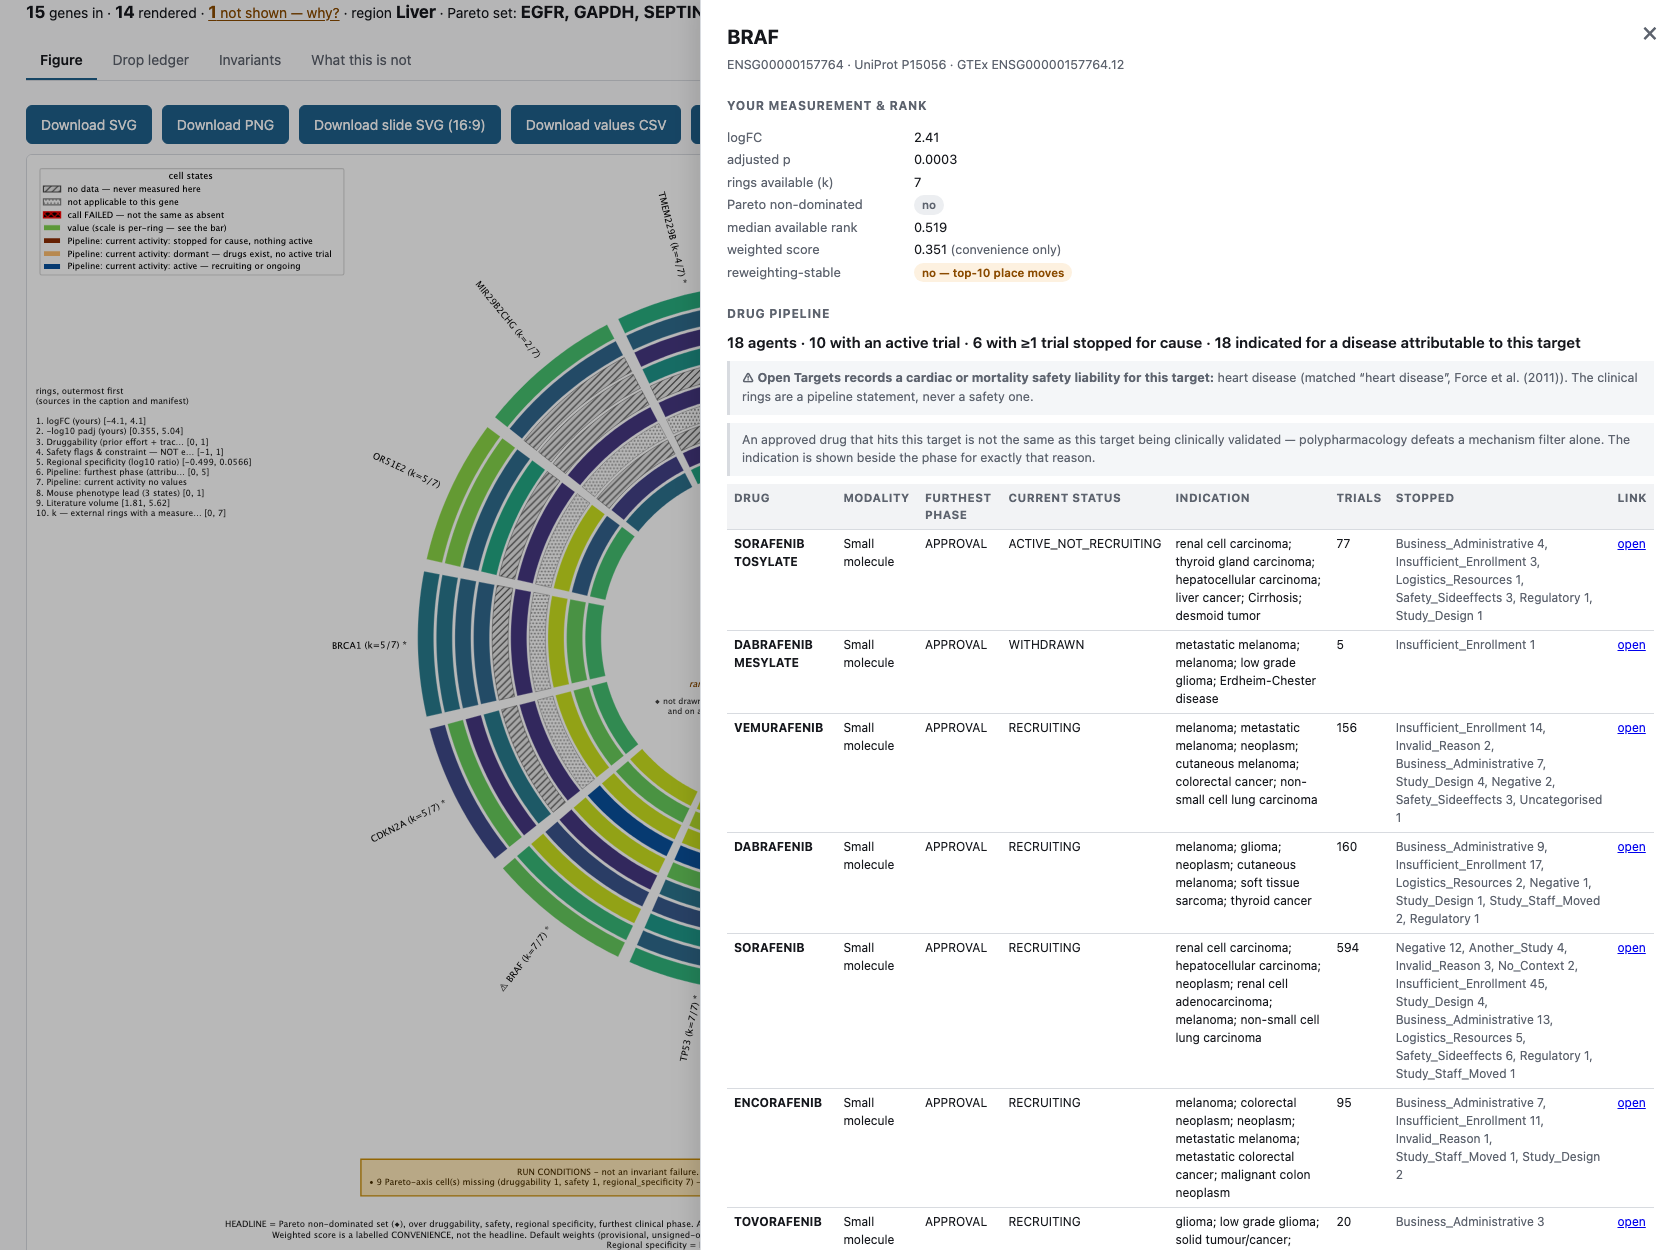
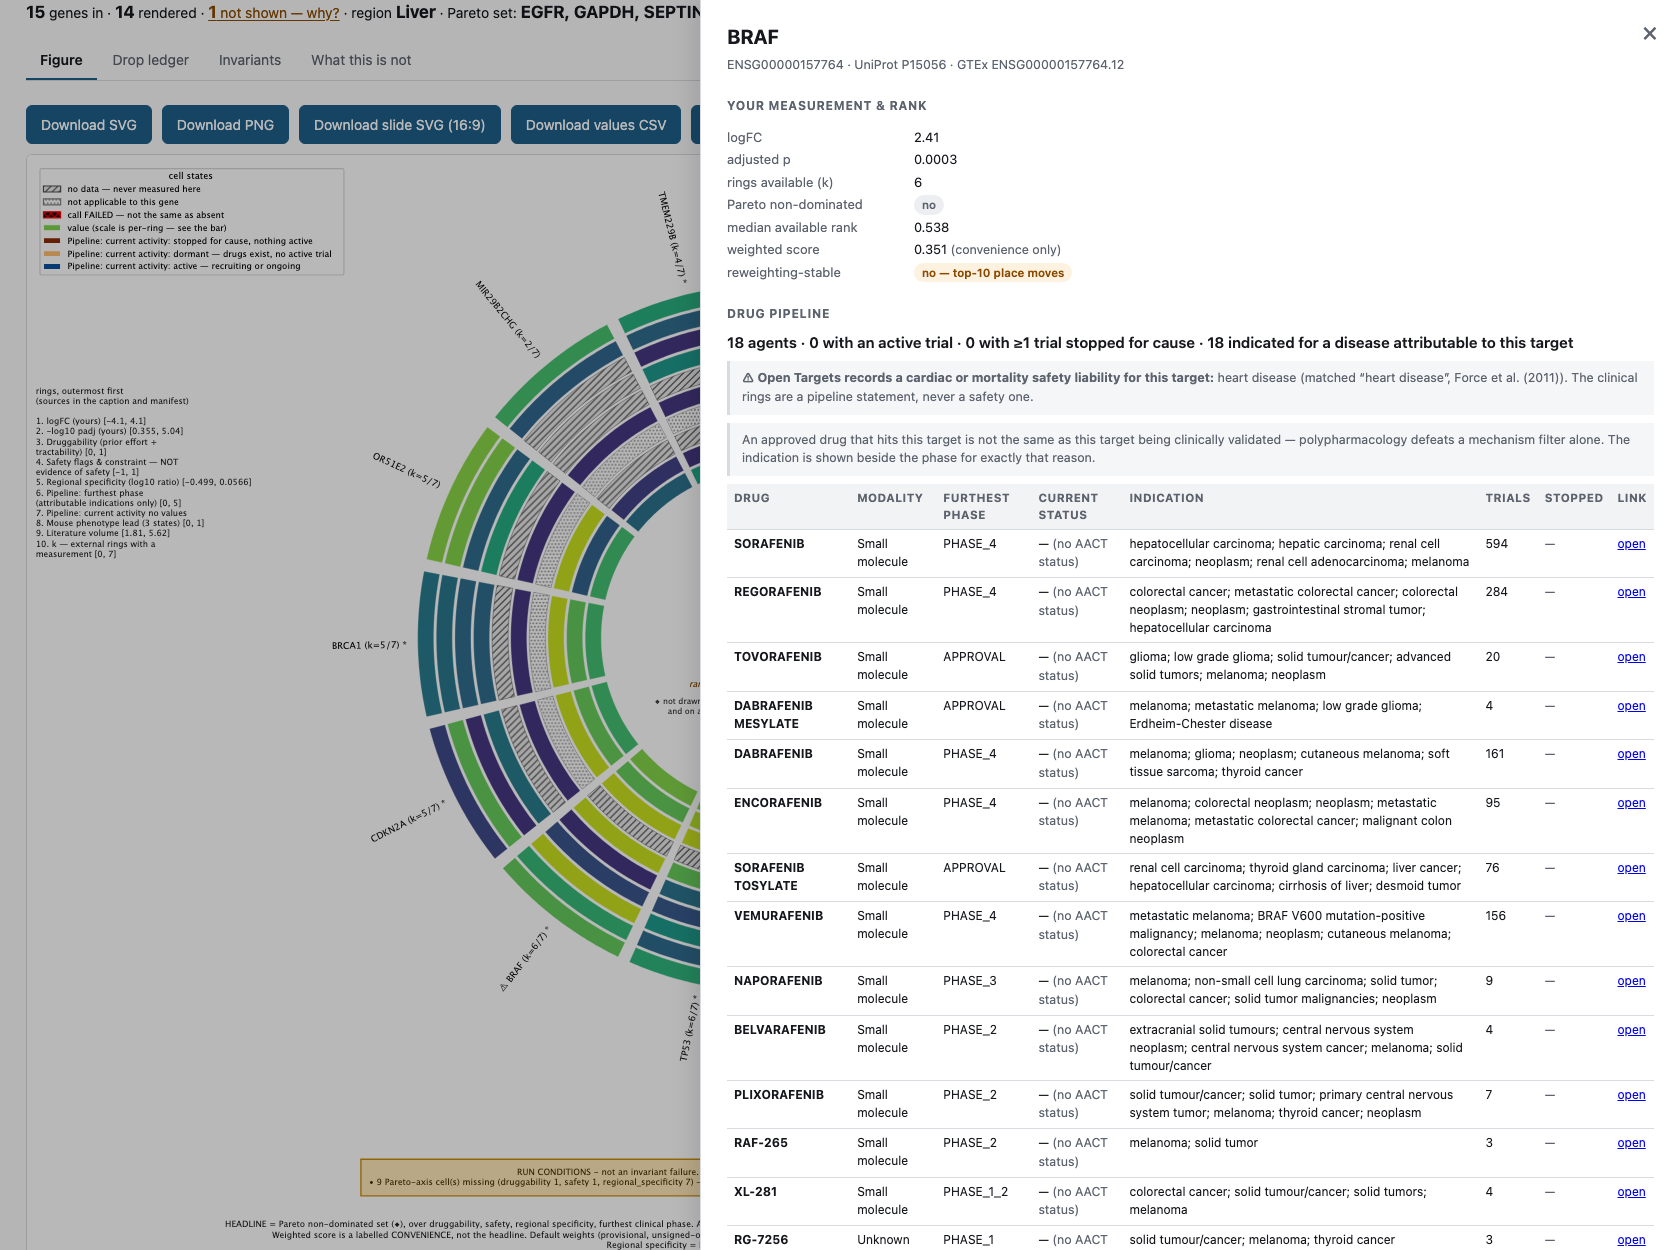
The activity ring says which trial source it looked for and what it found
Found while re-running for v2.1, and it is upstream drift rather than an
outage: Open Targets no longer emits `AACT` as a clinicalReports source and
labels the same trials `ClinicalTrials.gov`. 0 AACT rows across 109 targets
today; 4,195 in the previous night's cache. `clinical_activity` reads AACT
only, so the ring is now `no_data` for every gene.

That is honest -- hatched, off-colormap, never imputed, and k drops on the
figure -- but it was mute: the detail named the source it wanted and not the
ones it got, so an upstream rename was indistinguishable from a target with no
trials. It names both now.

Whether ClinicalTrials.gov rows are the population AACT was is a
source-semantics question, and changing what a ring counts unattended is not
mine to make. Flagged as the top open item in V2-REPORT §v2.1.

diff --git a/tests/test_adapters.py b/tests/test_adapters.py
@@ -866,3 +866,34 @@ class TestAFailureAlwaysCarriesAReason:
         assert not offenders, (
             "record failures with `describe(e)`, which always names the exception "
             "type: " + "; ".join(offenders))
+
+
+class TestTheActivityRingSaysWhatItLookedFor:
+    """Found while re-running v2.1, 2026-09-24: Open Targets stopped emitting
+    `AACT` as a clinicalReports source and now labels the same trials
+    `ClinicalTrials.gov` -- 0 AACT rows across 109 targets today against 4,195
+    in the previous night's cache. `clinical_activity` reads AACT only, so the
+    whole ring went to `no_data` for every gene.
+
+    That is honest (hatched, off-colormap, never imputed) but it was mute: the
+    detail named the source it wanted and not the ones it got, so a reader
+    could not tell an upstream rename from a target with no trials. Changing
+    what the ring counts is a source-semantics decision and not one to take
+    unattended; saying what happened is not.
+    """
+
+    def test_the_detail_names_the_sources_that_were_there(self) -> None:
+        rec = ot(drug_count=2, drug_rows=[{"clinicalReports": [
+            {"source": "ClinicalTrials.gov", "trialOverallStatus": "RECRUITING"},
+            {"source": "DailyMed", "trialOverallStatus": None},
+        ]}])
+        c = clinical_activity_cell(rec)
+        assert c.state == "no_data" and c.value is None
+        assert "ClinicalTrials.gov" in c.detail and "DailyMed" in c.detail
+        assert "AACT" in c.detail, "and which source it was looking for"
+
+    def test_a_target_with_no_reports_at_all_still_reads_cleanly(self) -> None:
+        rec = ot(drug_count=1, drug_rows=[{"clinicalReports": []}])
+        c = clinical_activity_cell(rec)
+        assert c.state == "no_data"
+        assert "none" in c.detail

diff --git a/targetring/adapters/opentargets.py b/targetring/adapters/opentargets.py
@@ -762,7 +762,22 @@ def clinical_activity_cell(rec: OTRecord) -> Cell:
                 for_cause += 1
 
     if with_status == 0:
-        return no_data(f"{rec.drug_count} candidates but no {STATUS_SOURCE}-sourced trial status")
+        # Naming what WAS there is the difference between a ring that is blank
+        # and a ring that is diagnosable. Found 2026-09-24: Open Targets stopped
+        # emitting `AACT` and now labels the same trials `ClinicalTrials.gov`
+        # (0 AACT rows across 109 targets today, 4,195 in last night's cache),
+        # which empties this ring for every gene. Whether ClinicalTrials.gov
+        # rows are the same population AACT was is a source-semantics question
+        # and Puck's call, not one to answer unattended -- but the figure must
+        # say which source it looked for and what it found instead.
+        seen = sorted({str(r.get("source")) for row in rec.drug_rows
+                       for r in (row.get("clinicalReports") or []) if r.get("source")})
+        return no_data(
+            f"{rec.drug_count} candidates but no {STATUS_SOURCE}-sourced trial status. "
+            f"Trial-report sources present for this target: {seen[:6] or 'none'}. "
+            f"This build reads trial status from {STATUS_SOURCE} only (COUNCIL D1 gap (ii): "
+            f"TTD/EMA/label rows carry no status and would read as inactive)."
+        )
 
     active = sum(1 for s in statuses if s in ACTIVE_STATUSES)
     raw = {"active": active, "for_cause": for_cause, "n_status_rows": with_status}
